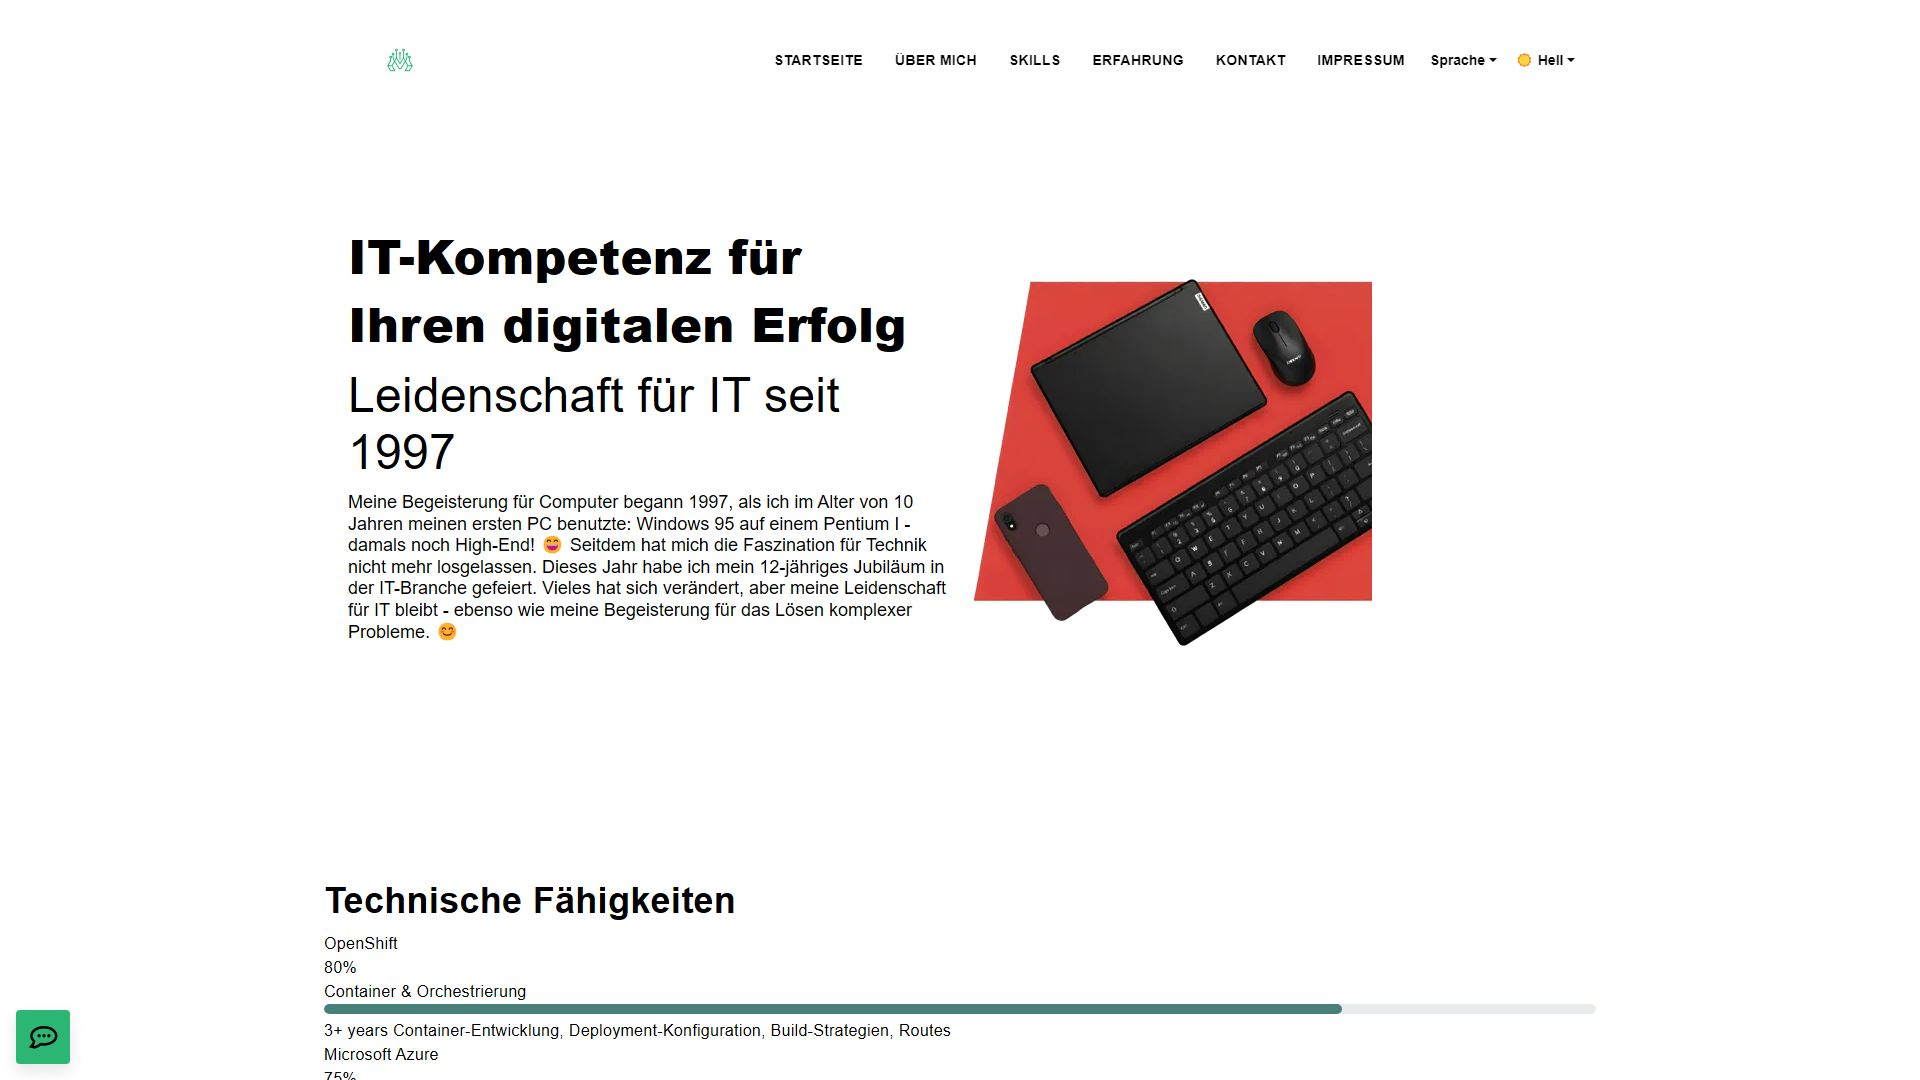
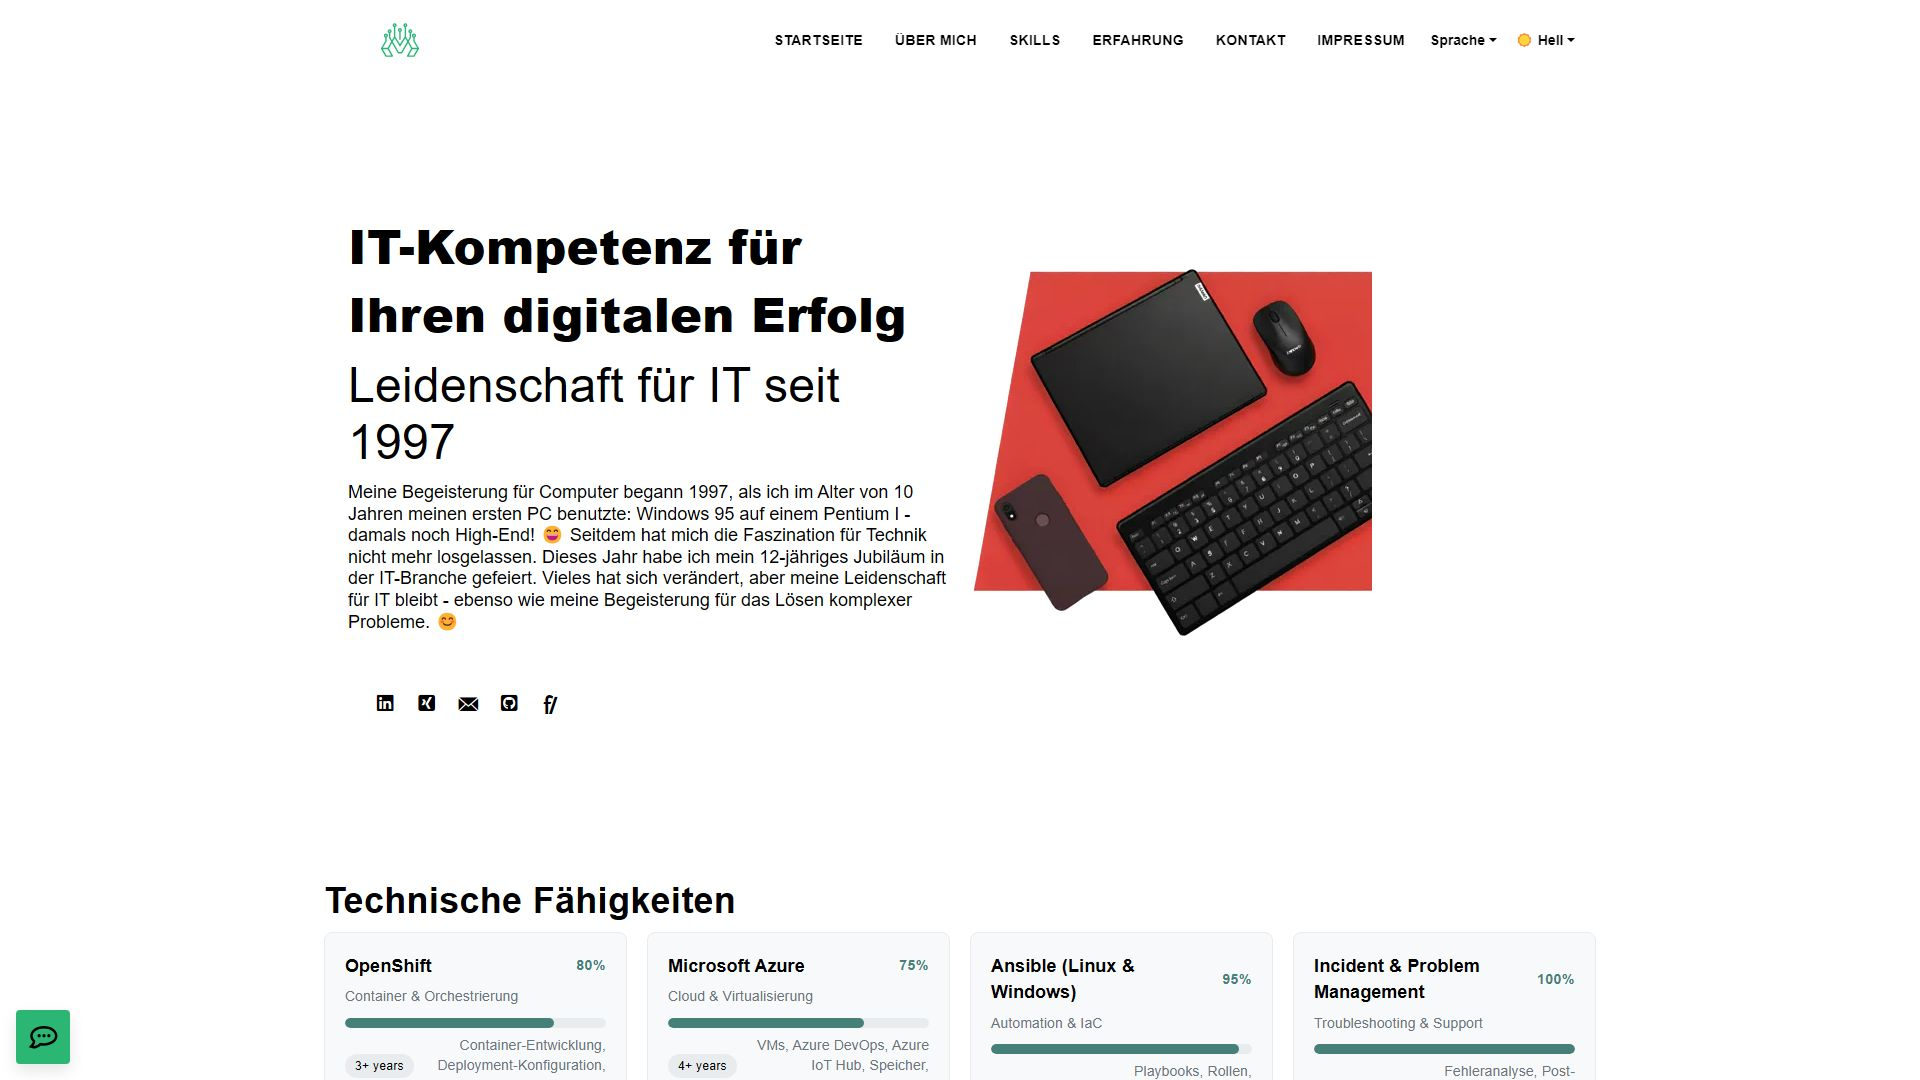
fix: ensure RocketChat widget transparency

diff --git a/assets/css/custom.css b/assets/css/custom.css
@@ -382,9 +382,19 @@ footer.footer .footer_links ul.navbar-nav {
 
 /* Rocket.Chat Widget - Transparent styling and forced light mode */
 iframe[src*="rocket.xana.space"],
-iframe[src*="livechat"] {
+iframe[src*="livechat"],
+#rocketchat-iframe {
     background: transparent !important;
+    background-color: transparent !important;
     color-scheme: light !important;
+}
+
+/* RocketChat widget container */
+.rocketchat-widget,
+.rocketchat-container,
+.rocketchat-wrapper > div {
+    background: transparent !important;
+    background-color: transparent !important;
 }
 
 /* Bottom Arrow Overlay - fixed to viewport, points at Rocket.Chat widget */

diff --git a/assets/js/site-inline.js b/assets/js/site-inline.js
@@ -40,7 +40,8 @@
       this.setTheme({
         color: '#2bb673',
         fontColor: '#000',
-        iconColor: '#ffffff'
+        iconColor: '#ffffff',
+        background: 'transparent'
       });
     });
   }
